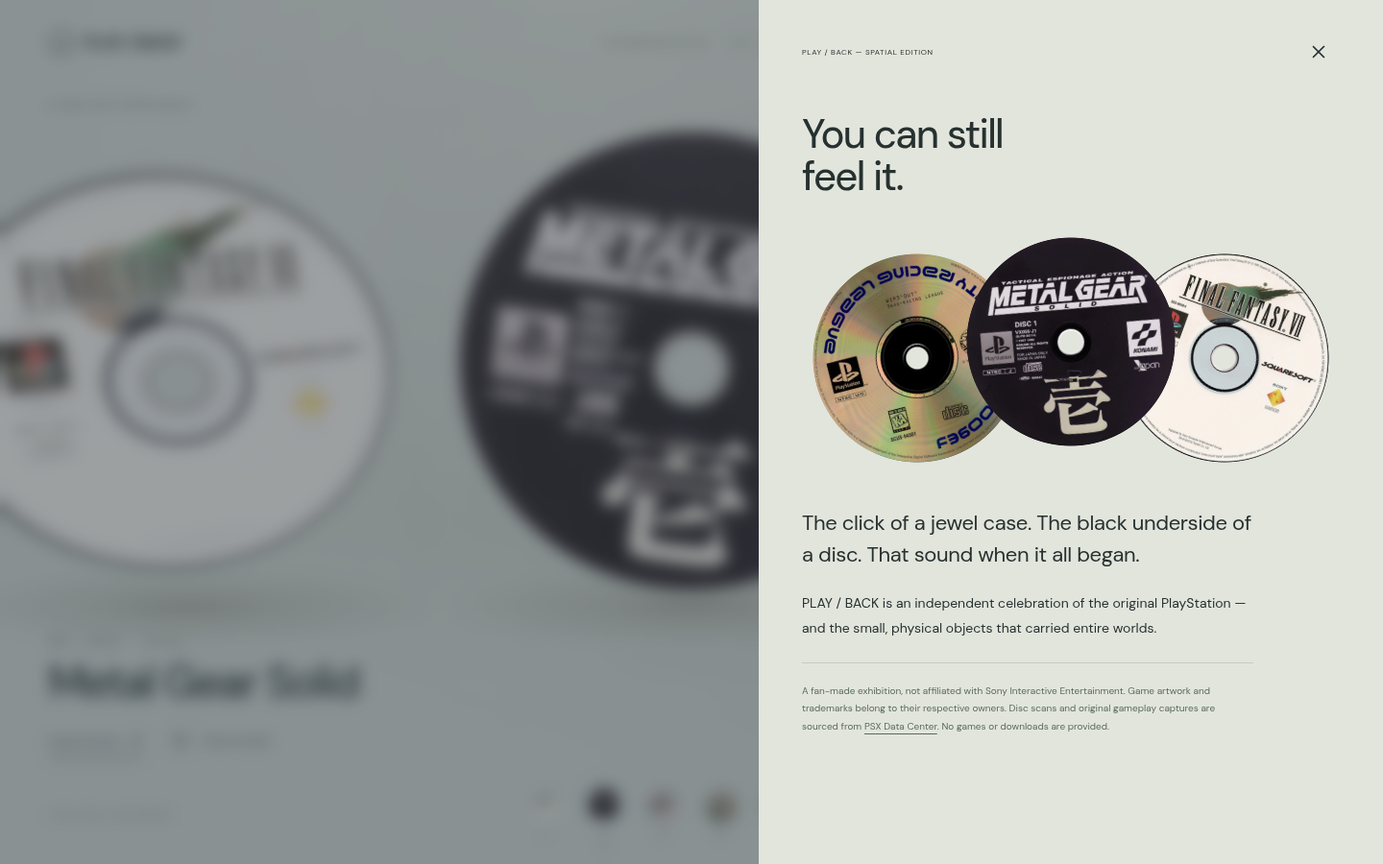
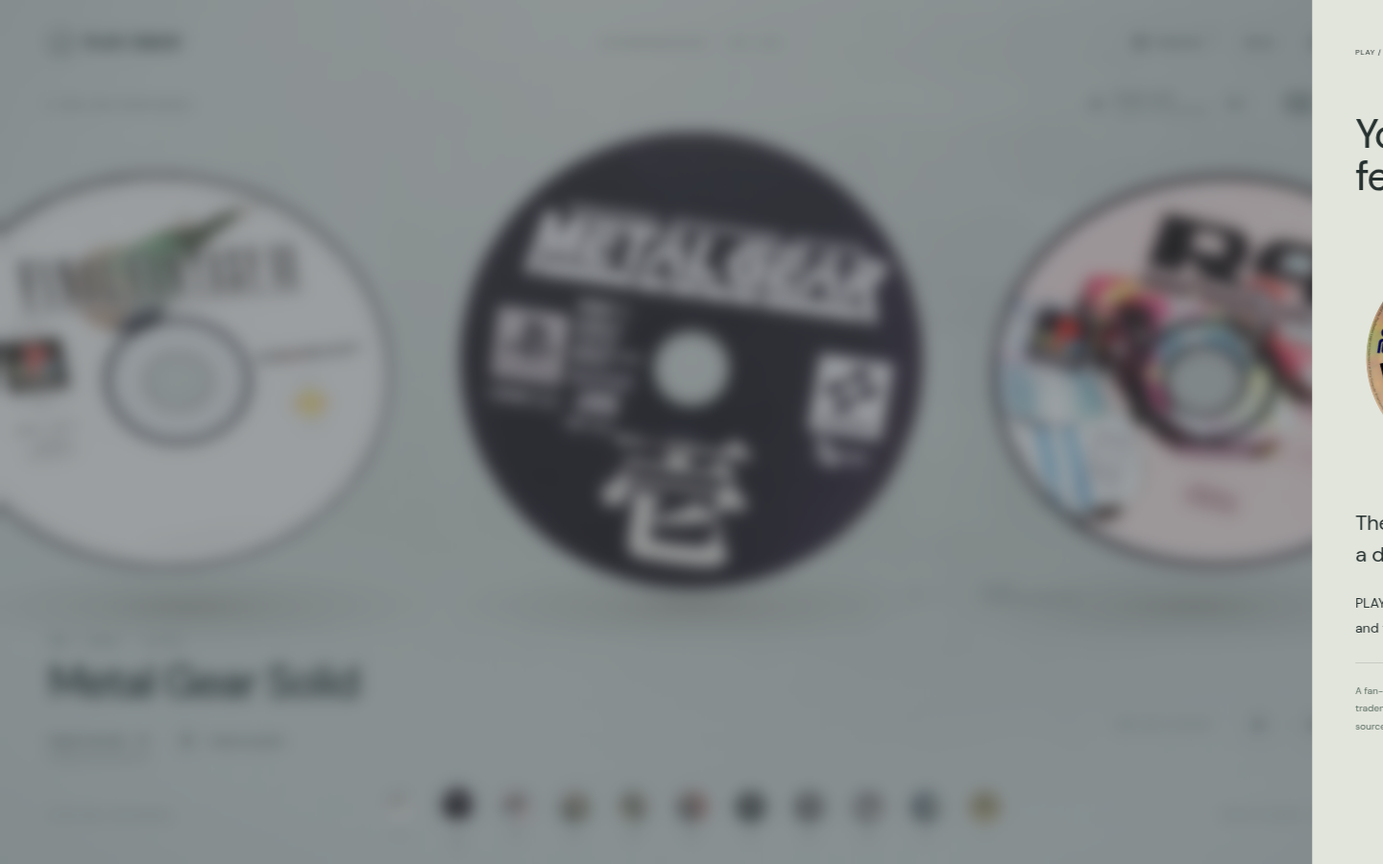
chore(release): prepare spatial edition for Cloudflare Pages

diff --git a/spatial-edition/src/DiscScene.tsx b/spatial-edition/src/DiscScene.tsx
@@ -59,6 +59,8 @@ export default function DiscScene({ state, onReady, onError }: Props) {
     const scene = new THREE.Scene();
     const camera = new THREE.PerspectiveCamera(29, 1, .1, 80);
     camera.position.set(0, 0, 14);
+    const cameraTarget = new THREE.Vector3(0, 0, 14);
+    const cameraLook = new THREE.Vector3(0, 0, 0);
     const room = new RoomEnvironment();
     const pmrem = new THREE.PMREMGenerator(renderer);
     const environment = pmrem.fromScene(room, .04);
@@ -70,6 +72,14 @@ export default function DiscScene({ state, onReady, onError }: Props) {
     key.position.set(-3, 6, 10); scene.add(key);
     const fill = new THREE.DirectionalLight(0xdce4ff, .65);
     fill.position.set(6, -2, 5); scene.add(fill);
+    const nightRim = new THREE.PointLight(0x90a9c5, 0, 18, 2);
+    nightRim.position.set(0, 2.5, 5.5); scene.add(nightRim);
+    const studioKey = new THREE.Color(0xfff8e9);
+    const nightKey = new THREE.Color(0xb8c8e6);
+    const studioFill = new THREE.Color(0xdce4ff);
+    const nightFill = new THREE.Color(0x7590b2);
+    const shadowStudio = new THREE.Color(0xffffff);
+    const shadowNight = new THREE.Color(0x6e8297);
 
     const faceGeometry = ring(.43, radius - .015);
     const backGeometry = ring(.43, radius - .008);
@@ -159,12 +169,13 @@ export default function DiscScene({ state, onReady, onError }: Props) {
     const fieldGeometry = new THREE.PlaneGeometry(45, 15);
     const fieldMaterial = new THREE.ShaderMaterial({
       transparent: true, depthWrite: false,
-      uniforms: { tint: { value: new THREE.Color(games[wrap(Math.round(state.current.position))].color) }, pointer: { value: new THREE.Vector2() } },
+      uniforms: { tint: { value: new THREE.Color(games[wrap(Math.round(state.current.position))].color) }, pointer: { value: new THREE.Vector2() }, night: { value: 0 } },
       vertexShader: 'varying vec2 vUv; void main(){vUv=uv;gl_Position=projectionMatrix*modelViewMatrix*vec4(position,1.);}',
-      fragmentShader: `varying vec2 vUv; uniform vec3 tint; uniform vec2 pointer;
+      fragmentShader: `varying vec2 vUv; uniform vec3 tint; uniform vec2 pointer; uniform float night;
         void main(){vec2 p=(vUv-.5)*vec2(3.,2.);p-=pointer*.035;
         float radius=length(p*vec2(.7,2.3));float falloff=exp(-radius*radius*3.);
-        gl_FragColor=vec4(tint,falloff*.17);
+        float nightStrength=mix(.12,.24,night);
+        gl_FragColor=vec4(tint,falloff*nightStrength);
         #include <colorspace_fragment>
         }`,
     });
@@ -199,13 +210,32 @@ export default function DiscScene({ state, onReady, onError }: Props) {
       px += (s.pointerX - px) * easing; py += (s.pointerY - py) * easing;
       hover += ((s.hovering ? 1 : 0) - hover) * easing;
       night += ((s.night ? 1 : 0) - night) * easing;
+      const mobile = width <= 540 || (s.detail && width <= 900);
+      const cameraMotion = s.reduced ? 0 : (mobile ? .62 : 1);
+      cameraTarget.set(px * (s.detail ? .18 : .1) * cameraMotion, -py * (s.detail ? .11 : .065) * cameraMotion, 14 - detail * .28 - hover * .035);
+      camera.position.x += (cameraTarget.x - camera.position.x) * easing;
+      camera.position.y += (cameraTarget.y - camera.position.y) * easing;
+      camera.position.z += (cameraTarget.z - camera.position.z) * easing;
+      cameraLook.set(s.detail ? -.16 : 0, detail * -.04, 0);
+      camera.lookAt(cameraLook);
       contourMaterial.color.setRGB(.29 + night * .35, .34 + night * .34, .28 + night * .35);
       haloMaterial.color.setRGB(.32 + night * .4, .38 + night * .4, .3 + night * .36);
-      key.intensity = 2.2 + night * .6; fill.intensity = .65 + night * .4;
-      const mobile = width <= 540 || (s.detail && width <= 900);
+      ambient.intensity = .85 - night * .25;
+      key.intensity = 2.2 - night * .45; fill.intensity = .65 - night * .2;
+      key.color.copy(studioKey).lerp(nightKey, night);
+      fill.color.copy(studioFill).lerp(nightFill, night);
+      nightRim.intensity = night * 1.4;
+      nightRim.position.x = px * 2.6;
+      nightRim.position.y = 2.5 - py * 1.8;
+      shadowMaterial.color.copy(shadowStudio).lerp(shadowNight, night);
+      shadowMaterial.opacity = .72 - night * .14;
+      edgeMaterial.envMapIntensity = .72 + night * .34;
+      hubMaterial.envMapIntensity = 1.25 + night * .35;
+      sheenMaterial.opacity = .045 + night * .025;
       const activeIndex = ((Math.round(renderedPosition) % games.length) + games.length) % games.length;
       fieldMaterial.uniforms.tint.value.lerp(new THREE.Color(games[activeIndex].color), easing * .3);
       fieldMaterial.uniforms.pointer.value.set(px, py);
+      fieldMaterial.uniforms.night.value = night;
       discs.forEach((disc, i) => {
         let distance = ((i - renderedPosition) % games.length + games.length) % games.length;
         if (distance > games.length / 2) distance -= games.length;
@@ -224,6 +254,7 @@ export default function DiscScene({ state, onReady, onError }: Props) {
         disc.visible = Math.abs(disc.position.x) < halfWidth + 4 && (detail < .98 || selected);
         shadows[i].position.x = disc.position.x;
         shadows[i].scale.x = scale;
+        shadows[i].scale.y = 1 + hover * focus * .1;
         shadows[i].visible = disc.visible;
         groundContours[i].position.x = disc.position.x;
         groundContours[i].visible = disc.visible;

diff --git a/spatial-edition/src/App.tsx b/spatial-edition/src/App.tsx
@@ -1,4 +1,4 @@
-import { lazy, Suspense, useCallback, useEffect, useRef, useState } from 'react';
+import { lazy, Suspense, useCallback, useEffect, useLayoutEffect, useRef, useState, type CSSProperties } from 'react';
 import { ArrowLeft, ArrowRight, ArrowUpRight, Plus, RotateCw, Volume2, VolumeX, X, MoveHorizontal, Sun, Moon, Aperture, Play, Grid2X2 } from 'lucide-react';
 import { discPath, games, number, wrap } from './data';
 import { media } from './media-data';
@@ -34,6 +34,7 @@ export default function App() {
   const memoryDestination = useRef<number | null>(null);
   const drag = useRef({ down: false, moved: false, x: 0, y: 0, previousX: 0, time: 0, velocity: 0, position: 0 });
   const game = games[active];
+  useLayoutEffect(() => { document.getElementById('boot-screen')?.remove(); }, []);
   const onReady = useCallback(() => setReady(true), []);
   const onError = useCallback(() => { setFallback(true); setReady(true); }, []);
   const setPosition = useCallback((position: number) => { scene.current.position = position; setActive(wrap(Math.round(position))); wake(); }, []);
@@ -123,6 +124,8 @@ export default function App() {
   const onPointerMove = (event: React.PointerEvent<HTMLDivElement>) => {
     const rect=event.currentTarget.getBoundingClientRect(); const x=event.clientX-rect.left, y=event.clientY-rect.top;
     scene.current.pointerX=(x/rect.width-.5)*2; scene.current.pointerY=(y/rect.height-.5)*2;
+    event.currentTarget.style.setProperty('--pointer-x', `${(x/rect.width-.5)*18}%`);
+    event.currentTarget.style.setProperty('--pointer-y', `${(y/rect.height-.5)*18}%`);
     scene.current.hovering = true; event.currentTarget.dataset.pointer='true';
     if(cursor.current) cursor.current.style.transform=`translate3d(${x}px,${y}px,0)`;
     if(drag.current.down) {
@@ -143,10 +146,15 @@ export default function App() {
     if(drag.current.moved) { if(!detail) { const velocity=performance.now()-drag.current.time<100?drag.current.velocity:0; setPosition(Math.round(scene.current.position-Math.max(-.65,Math.min(.65,velocity*.3)))); playTone('move',sound); } }
     else if(detail) flip();
     else { const r=event.currentTarget.getBoundingClientRect(); const distance=event.clientX-r.left-r.width/2; const spacing=pixelsPerDisc(r); if(Math.abs(distance)<spacing*.4) openGame(); else step(Math.sign(distance)); }
+    if (!drag.current.down) {
+      event.currentTarget.style.setProperty('--pointer-x', '0%');
+      event.currentTarget.style.setProperty('--pointer-y', '0%');
+    }
     wake();
   };
 
-  return <div className={`spatial-app ${detail?'is-detail':''} ${night?'is-night':''} ${ready?'is-ready':''}`}>
+  return <div className={`spatial-app ${detail?'is-detail':''} ${night?'is-night':''} ${ready?'is-ready':''}`} style={{ '--game-color': game.color } as CSSProperties} aria-busy={!ready}>
+    {!ready && <div className="startup-loading" role="status" aria-live="polite" aria-label="Loading the PLAY / BACK spatial exhibition"><div className="startup-loading__content" aria-hidden="true"><span className="startup-loading__disc"/><span className="startup-loading__name">PLAY / BACK</span><span className="startup-loading__label">LOADING THE SPATIAL EXHIBITION</span></div></div>}
     <a className="skip-link" href="#artifact-controls">Skip to artifact controls</a>
     <div className="atmosphere" aria-hidden="true"><img key={game.id} src={media[game.id][0].src} alt=""/><div/></div>
     <header className="site-header">
@@ -158,7 +166,7 @@ export default function App() {
       <div className="exhibit-note"><span className="live-dot"/>{detail?'THE ARTIFACT, UP CLOSE':'SMALL DISCS. ENTIRE WORLDS.'}</div>
       <div className="exhibit-number" aria-hidden="true"><span>{number(active)}</span><i>/ {String(games.length).padStart(2, '0')}</i></div>
       {detail && <button ref={closeButton} className="back-button" onClick={closeDetail}><ArrowLeft size={15}/> Back to the collection</button>}
-      <div className="gallery-stage" ref={stage} onPointerDown={onPointerDown} onPointerMove={onPointerMove} onPointerUp={e=>release(e)} onPointerCancel={e=>release(e,true)} onPointerLeave={e=>{e.currentTarget.dataset.pointer='false';scene.current.hovering=false;if(!drag.current.down){scene.current.pointerX=0;scene.current.pointerY=0;}wake();}}>
+      <div className="gallery-stage" ref={stage} onPointerDown={onPointerDown} onPointerMove={onPointerMove} onPointerUp={e=>release(e)} onPointerCancel={e=>release(e,true)} onPointerLeave={e=>{e.currentTarget.dataset.pointer='false';scene.current.hovering=false;if(!drag.current.down){scene.current.pointerX=0;scene.current.pointerY=0;e.currentTarget.style.setProperty('--pointer-x','0%');e.currentTarget.style.setProperty('--pointer-y','0%');}wake();}}>
         {!fallback && <Suspense fallback={null}><DiscScene state={scene} onReady={onReady} onError={onError}/></Suspense>}
         {(!ready||fallback) && <div className={`fallback-scene ${detail?'fallback-detail':''}`}>{[-1,0,1].map(offset=><div className={`fallback-disc offset-${offset}`} key={`${active}-${offset}`}>{flipped&&offset===0?<div className="fallback-reverse"/>:<img src={discPath(games[wrap(active+offset)])} alt=""/>}</div>)}</div>}
         <div className="disc-cursor" ref={cursor}><span>{detail?'TURN':'INSPECT'}<Plus size={12}/></span><i><MoveHorizontal size={20}/></i></div>

diff --git a/spatial-edition/src/film.css b/spatial-edition/src/film.css
@@ -55,7 +55,7 @@
 @keyframes next-memory-in{from{transform:translateX(18px);filter:blur(4px)}to{transform:translateX(0);filter:blur(0)}}
 @media(max-width:760px){.memory-mode{top:67px}.memory-viewer .memory-stage{top:124px}.film-stage{inset:136px 6% 135px;gap:18px}.film-player,.film-source{width:100%}.film-source{font-size:9px}.film-transport{gap:6px;padding:5px 8px}.film-sound>span{display:none}.film-clock{font-size:10px;min-width:75px}.film-sound{padding:0}.memory-next{gap:10px}.memory-next img{width:39px;height:39px}.memory-next>span{font-size:10px}.memory-next small{font-size:8px}.is-film .memory-caption>p{font-size:12px}}
 @media(max-width:540px){.memory-mode{top:59px}.memory-viewer .memory-stage{top:112px}.film-stage{inset:123px 5% 170px}.film-screen{aspect-ratio:4/3;border-radius:11px 30px 0 0}.film-player{border-top-right-radius:31px}.film-player::before{inset:-6px;border-top-right-radius:37px}.film-transport{gap:3px;flex-wrap:wrap;padding:6px 10px}.film-timeline{order:-1;flex-basis:100%;height:26px}.film-timeline input{height:26px}.film-clock{flex:1}.film-source{flex-direction:column;gap:4px}.film-source>span:last-child{display:none}.is-film .memory-bottom{align-items:flex-start;flex-direction:column;bottom:21px;gap:12px}.is-film .memory-next{width:100%;border-top:1px solid #bacab62b;padding-top:10px;min-height:52px}.is-film .memory-next>svg{margin-left:auto}.film-center-play{width:60px;height:60px}}
-@media(max-height:560px) and (min-width:541px){.memory-mode{top:12px;left:50%}.memory-top .memory-game{display:none}.memory-top{top:12px}.film-stage{inset:77px 22% 40px;gap:6px}.film-player{width:min(100%,calc((100svh - 171px)*1.6))}.film-screen{aspect-ratio:16/10}.film-transport{min-height:48px;padding:0 5px;gap:4px}.film-clock{min-width:66px;font-size:9px}.film-sound>span{display:none}.film-source{display:none}.is-film .memory-bottom{bottom:12px;left:3.5%;right:3.5%;pointer-events:none}.is-film .memory-caption{max-width:19%;align-self:flex-end}.is-film .memory-caption>p{font-size:10px;line-height:1.4}.memory-next{pointer-events:auto;max-width:21%;gap:8px;align-self:flex-end}.memory-next img{width:33px;height:33px}.memory-next>span{font-size:9px}.memory-next small{font-size:8px}.memory-next>svg{display:none}.memory-viewer:not(.is-film) .memory-stage{inset:68px 0 75px}.memory-viewer:not(.is-film) .memory-image-wrap{inset:-6% 23% -4%}.memory-viewer:not(.is-film) .memory-headline{left:4%;bottom:5%}.memory-viewer:not(.is-film) .memory-headline h2{font-size:5vw}.memory-viewer:not(.is-film) .memory-headline>p{max-width:19vw;font-size:8px}.memory-viewer:not(.is-film) .memory-frame-count{right:5%;bottom:7%}.memory-viewer:not(.is-film) .memory-side-note{display:none}.memory-viewer:not(.is-film) .memory-bottom{bottom:18px}.memory-next.is-capture-next{position:absolute;right:0;bottom:54px;max-width:160px}}
+@media(max-height:560px) and (min-width:541px){.memory-mode{top:12px;left:50%}.memory-top .memory-game{display:none}.memory-top{top:12px}.film-stage{inset:66px 8% 30px;gap:6px}.film-player{width:min(100%,calc((100svh - 135px)*1.6),980px)}.film-screen{aspect-ratio:16/10}.film-transport{min-height:48px;padding:0 5px;gap:4px}.film-clock{min-width:66px;font-size:9px}.film-sound>span{display:none}.film-source{display:none}.is-film .memory-bottom{bottom:12px;left:3.5%;right:3.5%;pointer-events:none}.is-film .memory-caption{max-width:19%;align-self:flex-end}.is-film .memory-caption>p{font-size:10px;line-height:1.4}.memory-next{pointer-events:auto;max-width:21%;gap:8px;align-self:flex-end}.memory-next img{width:33px;height:33px}.memory-next>span{font-size:9px}.memory-next small{font-size:8px}.memory-next>svg{display:none}.memory-viewer:not(.is-film) .memory-stage{inset:68px 0 75px}.memory-viewer:not(.is-film) .memory-image-wrap{inset:-6% 23% -4%}.memory-viewer:not(.is-film) .memory-headline{left:4%;bottom:5%}.memory-viewer:not(.is-film) .memory-headline h2{font-size:5vw}.memory-viewer:not(.is-film) .memory-headline>p{max-width:19vw;font-size:8px}.memory-viewer:not(.is-film) .memory-frame-count{right:5%;bottom:7%}.memory-viewer:not(.is-film) .memory-side-note{display:none}.memory-viewer:not(.is-film) .memory-bottom{bottom:18px}.memory-next.is-capture-next{position:absolute;right:0;bottom:54px;max-width:160px}}
 @media(prefers-reduced-motion:reduce){.film-stage,.memory-next,.film-status>span{animation:none}.film-center-play,.memory-mode button::after,.memory-next img{transition:none}}
 @media(max-width:540px){.memory-continuation{left:7%;right:7%;bottom:82px}.memory-continuation.is-capture-next{left:auto;bottom:68px;background:#111a1df2;padding:7px 11px;border:1px solid #c8d6bd33}.memory-continuation.is-capture-next .memory-next{border:0;padding:0}.memory-continuation .memory-next{max-width:none}.memory-viewer.has-continuation:not(.is-film) .memory-headline>p{visibility:hidden}}
 @media(max-height:560px) and (min-width:541px){.memory-continuation{right:3%;bottom:18px;max-width:19%}.memory-continuation .memory-next{max-width:none}.memory-continuation.is-capture-next{bottom:87px}}

diff --git a/spatial-edition/index.html b/spatial-edition/index.html
@@ -4,12 +4,29 @@
     <meta charset="UTF-8" />
     <meta name="viewport" content="width=device-width, initial-scale=1.0" />
     <meta name="theme-color" content="#cdd3d1" />
-    <meta name="description" content="A love letter to the original PlayStation. Six iconic games, six physical artifacts. Pick one up. Play it back." />
+    <meta name="description" content="A love letter to the original PlayStation. Eleven iconic games, eleven physical artifacts. Pick one up. Play it back." />
     <meta property="og:title" content="PLAY / BACK — Spatial Edition" />
-    <meta property="og:description" content="Small discs. Entire worlds. An interactive exhibition of the games that stayed with us." />
+    <meta property="og:description" content="Eleven small discs. Entire worlds. An interactive exhibition of the games that stayed with us." />
     <link rel="icon" type="image/svg+xml" href="/favicon.svg" />
     <link rel="preload" href="/fonts/barlow-condensed-latin.woff2" as="font" type="font/woff2" crossorigin />
     <title>PLAY / BACK — Spatial Edition</title>
+    <style>
+      .startup-loading{position:fixed;inset:0;z-index:10000;display:grid;place-items:center;background:#d9ddd5;color:#263130;font-family:Arial,sans-serif}
+      .startup-loading__content{display:grid;justify-items:center;gap:16px}
+      .startup-loading__disc{position:relative;width:clamp(88px,15vw,132px);aspect-ratio:1;border:1px solid #53615a;border-radius:50%;display:grid;place-items:center;animation:startup-turn 4s linear infinite}
+      .startup-loading__disc::before{content:"";position:absolute;inset:9%;border:1px solid #53615a80;border-radius:50%;border-left-color:transparent}
+      .startup-loading__disc::after{content:"";width:12%;aspect-ratio:1;border:1px solid #53615a;border-radius:50%;background:#d9ddd5}
+      .startup-loading__name{font-size:13px;font-weight:650;letter-spacing:.08em}
+      .startup-loading__label{font-size:8px;letter-spacing:.16em;color:#53615a}
+      @keyframes startup-turn{to{transform:rotate(360deg)}}
+      @media(prefers-reduced-motion:reduce){.startup-loading__disc{animation:none}}
+    </style>
   </head>
-  <body><div id="root"></div><script type="module" src="/src/main.tsx"></script></body>
+  <body>
+    <div id="boot-screen" class="startup-loading" role="status" aria-live="polite" aria-label="Loading the PLAY / BACK spatial exhibition">
+      <div class="startup-loading__content" aria-hidden="true"><span class="startup-loading__disc"></span><span class="startup-loading__name">PLAY / BACK</span><span class="startup-loading__label">LOADING THE SPATIAL EXHIBITION</span></div>
+    </div>
+    <div id="root"></div>
+    <script type="module" src="/src/main.tsx"></script>
+  </body>
 </html>

diff --git a/spatial-edition/src/refinements.css b/spatial-edition/src/refinements.css
@@ -1,4 +1,14 @@
 .spatial-app:not(.is-night){--muted:#4c5c59}
+.spatial-app{--game-color:#a8c0ae}
+.atmosphere::before{content:'';position:absolute;inset:-18%;background:radial-gradient(ellipse at 50% 42%,color-mix(in srgb,var(--game-color),transparent 88%),transparent 58%);opacity:.38;transform:scale(1.04);transition:opacity 1.2s var(--ease)}
+.atmosphere::after{content:'';position:absolute;inset:0;background:radial-gradient(ellipse at 50% 48%,transparent 22%,#111a1d0b 75%,#10171925 100%);opacity:.32;pointer-events:none}
+.gallery-stage::before{content:'';position:absolute;inset:4% 8%;pointer-events:none;z-index:1;opacity:0;mix-blend-mode:soft-light;background:radial-gradient(ellipse at calc(50% + var(--pointer-x,0%)) calc(50% + var(--pointer-y,0%)),color-mix(in srgb,var(--game-color),white 42%) 0%,transparent 34%);transition:opacity .55s var(--ease),background-position .6s var(--ease)}
+.gallery-stage[data-pointer=true]::before{opacity:.34}
+.is-night .atmosphere>div{opacity:.72;background:radial-gradient(ellipse at 50% 8%,#8da0c025,transparent 53%),linear-gradient(130deg,#162126aa,#202c30 45%,#10181dcc)}
+.is-night .atmosphere::before{opacity:.9;animation:night-drift 18s ease-in-out infinite alternate}
+.is-night .atmosphere::after{opacity:.75;background:radial-gradient(ellipse at 50% 42%,transparent 18%,#07101444 72%,#050a0d9c 100%)}
+.is-night .gallery-stage::after{content:'';position:absolute;inset:12% 18% 6%;pointer-events:none;border:1px solid color-mix(in srgb,var(--game-color),transparent 88%);border-radius:50%;transform:rotate(-9deg) scaleX(1.35);opacity:.26;mix-blend-mode:screen}
+@keyframes night-drift{from{transform:translate3d(-1.5%,0,0) scale(1.04)}to{transform:translate3d(1.5%,1%,0) scale(1.08)}}
 .artifact-actions>button,.back-button,.flip-button{font-size:11px}
 .memory-auto>span{font-size:11px}
 .disc-dock>button{position:relative}
@@ -34,3 +44,7 @@
   .spatial-app:not(.is-detail) .disc-dock button{min-width:40px;padding:5px}
 }
 @media(prefers-reduced-motion:reduce){.disc-dock>button>.dock-label{transition:none}}
+@media(prefers-reduced-motion:reduce){.is-night .atmosphere::before{animation:none}.gallery-stage::after,.gallery-stage::before{display:none}}
+.gallery-stage::before{will-change:opacity,background-position}
+@media(hover:none){.gallery-stage::before{display:none}}
+.archive-panel{animation-fill-mode:both}

diff --git a/spatial-edition/tests/experience.spec.ts b/spatial-edition/tests/experience.spec.ts
@@ -1,5 +1,18 @@
 import { expect, test } from '@playwright/test';
 
+test('announces a loading screen while the spatial scene is still loading', async ({ page }) => {
+  let release!: () => void;
+  const gate = new Promise<void>(resolve => { release = resolve; });
+  await page.route(/\/discs\/[^/]+\.webp$/, async route => { await gate; await route.continue(); });
+  await page.goto('/', { waitUntil: 'domcontentloaded' });
+  const loadingScreen = page.locator('.startup-loading');
+  await expect(loadingScreen).toBeVisible();
+  await expect(loadingScreen).toHaveAttribute('role', 'status');
+  release();
+  await expect(page.locator('.is-ready')).toBeVisible({ timeout: 20000 });
+  await expect(loadingScreen).toHaveCount(0);
+});
+
 test('collection navigation wraps and inspection preserves its artifact', async ({ page }) => {
   await page.goto('/');
   await page.getByRole('button', { name: 'Previous game', exact: true }).click();
@@ -37,17 +50,20 @@ test('index opens the selected artifact', async ({ page }) => {
   await expect(page.locator('.archive-panel')).toHaveCount(0);
 });
 
-test('backward navigation during lazy loading cannot crash the scene', async ({ page }) => {
+test('keyboard navigation during delayed scene loading cannot crash the scene', async ({ page }) => {
   const errors: string[] = []; page.on('pageerror', e => errors.push(e.message));
   let release!: () => void;
   const gate = new Promise<void>(resolve => { release = resolve; });
   await page.route(/\/src\/DiscScene\.tsx/, async route => { await gate; await route.continue(); });
   await page.goto('/', { waitUntil: 'domcontentloaded' });
-  await page.getByRole('button', { name: 'Previous game', exact: true }).click();
-  await page.getByRole('button', { name: 'Previous game', exact: true }).click();
+  await page.locator('.spatial-app').waitFor();
+  await expect(page.locator('#boot-screen')).toHaveCount(0);
+  await page.waitForTimeout(100);
+  await page.keyboard.press('ArrowLeft');
+  await page.keyboard.press('ArrowLeft');
+  await expect(page.locator('.artifact-caption h1')).toHaveText("Tony Hawk's Pro Skater 2");
   release();
   await expect(page.locator('.is-ready')).toBeVisible({ timeout: 20000 });
-  await expect(page.locator('.artifact-caption h1')).toHaveText("Tony Hawk's Pro Skater 2");
   expect(errors).toEqual([]);
 });
 

diff --git a/spatial-edition/docs/verification.md b/spatial-edition/docs/verification.md
@@ -1,27 +1,27 @@
 # Verification — spatial edition
 
-Final verification was performed in Chromium on 26 September 2026. The spatial edition remains isolated in this folder; the parent edition was not modified.
+Release review performed 2 October 2026 against the current `feat/expanded-collection` candidate.
 
-## Production build
+## Build and Cloudflare Pages shape
 
-`npm run build` passes TypeScript and Vite production compilation. Three.js and the memory viewer are separate lazy chunks. Disc artwork, captures, fonts, film posters and all six H.264/AAC films are self-hosted. Only the active film is mounted; no YouTube, thumbnail or streaming request is made by the experience.
+`npm run build` passed TypeScript and Vite production compilation. The production output is `dist/`; Three.js and the memory viewer are separate lazy chunks. Cloudflare Pages settings are recorded in [README.md](../README.md): project root `spatial-edition`, build command `npm run build`, output directory `dist`, and Node.js `22.16.0` pinned in `.node-version`. No build-time environment variables are required.
+
+The built output contains 78 files and is approximately 51.9 MiB. The largest file is `tekken-3.mp4` at 12,353,599 bytes, below Pages’ 25 MiB per-file limit. The full set is below Pages’ 20,000-file Free-plan limit. See [Cloudflare Pages limits](https://developers.cloudflare.com/pages/platform/limits/).
 
 ## Browser regressions
 
-The committed Playwright suite contains twelve scenarios. It covers cyclic collection navigation, inspection and reversal, memory-room focus and keyboard isolation, index selection, delayed scene loading, reduced motion, the WebGL fallback, browser Back behavior, the 844 × 390 collection composition, local film autoplay/pause/seek, retry after media failure, switching to captures, and the image-led next-memory handoff.
+`npm test` passed **19/19 scenarios in 5.6 minutes** in Chromium. Coverage includes all eleven collection items, their detail and capture routes, keyboard and pointer interaction, inspection and reversal, delayed scene loading, the accessible loading screen, reduced motion, WebGL fallback, browser Back, short-landscape controls, local film controls, retry after a media failure, and the next-memory handoff.
 
-The focused film suite passed all four scenarios after the native seek test was changed to interact with the range track as a visitor would. The history and short-landscape regressions both pass. The final complete suite is rerun after all source edits and its result is recorded below.
+## Production-preview smoke
 
-## Local film integrity
+The Vite production preview served the built `dist` output in Chromium. The loading screen cleared when the scene became ready; the 11-item collection and a direct `#game/tony-hawk-2` link rendered. The Metal Gear Solid film played, reported `readyState: 4` and a real duration, then the visitor switched to captures and closed the memory room. No browser runtime or console errors, unexpected failed requests, or third-party video requests were recorded.
 
-`scripts/film-playback.mjs` opened each game in Chromium and verified that its local video advanced, reported a real duration, reached `readyState: 4`, and decoded after seeking near the midpoint. All six completed with no video error, no application runtime error and no YouTube, ytimg or googlevideo request.
+All eleven local MP4s were then opened from the production preview, played, and sought. Each reached `readyState: 4` without a media error. There were no YouTube, `ytimg`, or `googlevideo` requests.
 
-Every MP4 was also decoded end to end with ffmpeg using an error-only pass; all six exited cleanly. The footage totals approximately 34 MB. Encoding and provenance are recorded in [film-sources.md](film-sources.md).
+## Release conditions and evidence limits
 
-## Visual review
+- The workspace has no Git remote configured, so no remote `main` push, Cloudflare build, deployed commit check, production-URL smoke, or Cloudflare rollback check was possible.
+- Project notes say permission for public distribution of the locally hosted game films is required. The workspace contains no permission evidence. The five added disc textures and fifteen added captures also lack exact source-file entries in the provenance tables. Public release is conditional on resolving those asset rights and provenance gaps.
+- Browser verification used software-rendered Chromium. It is not a physical-phone GPU or real-device performance check.
 
-Desktop 1440 × 900, mobile 390 × 844 and 320 × 740, tablet 768 × 1024, and short landscape 844 × 390 were captured during interaction. The review covered collection, hover/focus dock titles, inspection, reverse surface, local playback, custom controls, captures and both ending handoffs. The fresh short-landscape dialog remained at scroll position zero and the player fit inside the viewport. No horizontal overflow or page runtime error was found in the media-layout capture pass.
-
-The independent design review began at a subjective 7.3/10 and identified five priorities. All five were implemented and rechecked: video-first local playback; isolated inspection; clearer rim/hub material response; sighted dock labels; and an image-led continuation. A separate browser critic found and verified fixes for short-landscape controls, browser Back, video-duration synchronization, muted-text contrast and functional label sizing. Reports and their limitations are in [critic-review.md](critic-review.md) and [browser-critique.md](browser-critique.md); evidence is under `.impeccable/review/`.
-
-These checks use software-rendered Chromium in the test environment. They verify behavior and layouts, but are not a physical-phone GPU benchmark or a rights clearance for public distribution of the archival footage.
+The locally tested build is a candidate for static Cloudflare Pages hosting, with public release conditional on the items above.

diff --git a/spatial-edition/DESIGN.md b/spatial-edition/DESIGN.md
@@ -69,7 +69,7 @@ components:
 
 **Creative North Star: "A world you could hold."**
 
-The exhibition begins with physical discs in a cool, softly lit studio. Authentic printed surfaces, perspective, dark polycarbonate reverses and delicate contour graphics carry the identity. Text supports recognition and interaction; the memory room opens the object into original gameplay and cinematic imagery.
+The exhibition begins with physical discs in a cool, softly lit studio. Authentic printed surfaces, perspective, dark polycarbonate reverses and delicate contour graphics carry the identity. Text supports recognition and interaction; the memory room opens the object into original gameplay and cinematic imagery. After-hours is a full lighting state with camera parallax, cooler rim light, a deeper room field and selected-artwork color response.
 
 **Key Characteristics:**
 
@@ -92,7 +92,7 @@ The main collection is a viewport composition: narrow header, large central scen
 
 ## Elevation & Depth
 
-Depth belongs to the objects: perspective, annular geometry, a visible thin edge, metallic hub, printed front and reflective black reverse. Diffuse elliptical shadows and three ground rings establish a shared plane. Pointer motion shifts the disc and light; partial contours and radial ticks intensify on hover. Interface controls use fine borders and tonal inversion rather than card shadows. Memory depth combines image parallax, a moving aperture edge, a fine offset outline and atmospheric blur.
+Depth belongs to the objects: perspective, annular geometry, a visible thin edge, metallic hub, printed front and reflective black reverse. Diffuse elliptical shadows and three ground rings establish a shared plane. Pointer motion shifts the disc, camera and light with damped movement; a restrained pointer-following aperture now gives the ground plane a physical footprint, while partial contours and radial ticks intensify on hover. After-hours adds a low-energy colored room field, cooler rim light and deeper contact shadows. Interface controls use fine borders and tonal inversion rather than card shadows. Memory depth combines image parallax, a moving aperture edge, a fine offset outline and atmospheric blur.
 
 ## Shapes
 
@@ -107,7 +107,7 @@ Circles belong to discs, navigation and cursors; the flip control is a capsule. 
 - **Archive:** native dialog with image-led rows and fine separators; the collection remains mounted behind it.
 - **Memory viewer:** native dialog opens on a locally hosted archival trailer, commercial or opening cinematic before captures. The projection has a sculpted outer contour and a quiet custom transport outside the picture; playback starts muted, supports seeking, sound and fullscreen, and has a local poster and retry state. A Film / Captures switch reveals three locally hosted original-resolution captures per game in a fluid frame, with caption, manual navigation and optional five-second autoplay. At a film ending or the final capture, an image-led next-memory prompt returns the visitor to the next physical disc. Switching to captures or closing the room removes the video element.
 
-Motion follows `--ease`; the scene settles when idle and suspends behind modal surfaces. Reduced-motion preferences remove decorative animation and pointer parallax. Sound is optional and initially off.
+Motion follows `--ease`; the scene settles when idle and suspends behind modal surfaces. Reduced-motion preferences remove decorative animation and pointer parallax. Short landscape film viewports widen the projection stage and reduce chrome so the archival image retains presence without clipping. Sound is optional and initially off.
 
 ## Do's and Don'ts
 

diff --git a/spatial-edition/README.md b/spatial-edition/README.md
@@ -1,6 +1,6 @@
 # PLAY / BACK — Spatial edition
 
-A React, TypeScript and Three.js exhibition of six original PlayStation discs. Browse physical objects in studio or after-hours lighting, inspect their reverse, and enter a cinematic room of original game captures and archival films.
+A React, TypeScript and Three.js exhibition of eleven original PlayStation discs. Browse physical objects in studio or after-hours lighting, inspect their reverse, and enter a cinematic room of original game captures and archival films.
 
 ## Run locally
 
@@ -36,6 +36,20 @@ Reduced-motion preferences are respected. Local disc images provide a fallback i
 
 ## Artwork and design
 
-Disc textures, eighteen game captures, six archival films, their posters and both fonts are hosted locally. Film files total about 34 MB but only the selected game’s film is mounted and loaded. Exact sources are recorded in [disc provenance](docs/assets.md), [capture provenance](docs/media-assets.md) and [film provenance](docs/film-sources.md). This independent fan exhibition provides no games or game downloads; artwork and trademarks belong to their respective owners. Public deployment of the archival footage requires permission from the relevant rights holders.
+Disc textures, thirty-three game captures, eleven archival films, their posters and both fonts are hosted locally. Film files total about 48 MiB, but only the selected game’s film is mounted and loaded. Sources and preparation notes are recorded in [disc provenance](docs/assets.md), [capture provenance](docs/media-assets.md) and [film provenance](docs/film-sources.md). This independent fan exhibition provides no games or game downloads; artwork and trademarks belong to their respective owners. Public deployment of the archival footage requires permission from the relevant rights holders.
+
+## Cloudflare Pages
+
+Create a Pages project from this repository with these settings:
+
+- Root directory: `spatial-edition`
+- Build command: `npm run build`
+- Build output directory: `dist`
+- Node.js: pinned to `22.16.0` in `.node-version`
+- Environment variables: none required
+
+The root directory matters because the repository root contains a separate edition. The collection uses hash-based navigation, so it needs no server-side routes or Functions. All individual assets are below Pages’ 25 MiB per-file limit.
+
+Before making the exhibition public, obtain permission for the locally hosted game footage, captures and artwork from their respective rights holders. Source and provenance notes identify where the assets came from; they do not grant distribution rights.
 
 See [DESIGN.md](DESIGN.md), [.impeccable/design.json](.impeccable/design.json) and the [surface brief](docs/surface.md) for the current implemented direction. This folder is the standalone spatial edition; the parent project's original edition is separate.

diff --git a/spatial-edition/docs/surface.md b/spatial-edition/docs/surface.md
@@ -8,7 +8,7 @@ THESIS: Recognize a physical disc, handle it, then enter a remembered world. Aut
 
 WORLD: Cool studio gray, graphite labels, a dark after-hours alternate, perspective and soft reflections. Ground rings and partial hover contours frame real disc scans. A subtle image-derived atmosphere connects each object to its game.
 
-FIRST VIEWPORT: Small brand and navigation above an oversized central disc with neighboring discs partially visible. Quiet catalog notes, lighting switch, concise selected-game title and actions surround the scene. A six-disc image dock anchors the bottom. There is no oversized introductory headline.
+FIRST VIEWPORT: Small brand and navigation above an oversized central disc with neighboring discs partially visible. Quiet catalog notes, lighting switch, concise selected-game title and actions surround the scene. An eleven-disc image dock anchors the bottom. There is no oversized introductory headline.
 
 STORY: Drag, scroll, use arrow keys or select a thumbnail. Inspect the same object as it shifts into position; turn it over to see its dark reflective underside. Enter its world to play a locally hosted archival trailer, commercial or opening cinematic in a large framed projection. Switch to Captures for three original PlayStation images in a fluid photographic frame. At the end, choose the next disc. Close the memory room to return to the selected artifact.
 
@@ -18,7 +18,7 @@ RESPONSIVE: Desktop inspection places the object beside its description. Narrow 
 
 ## Implemented surfaces
 
-- Collection and six-disc dock; studio/after-hours lighting; optional sound.
+- Collection and eleven-disc dock; studio/after-hours lighting; optional sound.
 - Disc inspection, reversible physical object and hash-linked game selection.
 - Collection index and about/credits side panels.
 - Memory room with image captions, previous/next controls, frame selection and optional autoplay.

diff --git a/spatial-edition/POLISH_PLAN.md b/spatial-edition/POLISH_PLAN.md
@@ -1,0 +1,24 @@
+# Spatial Edition — autonomous visual polish pass
+
+## Baseline diagnosis
+
+Fresh Chromium captures were reviewed at desktop, after-hours, detail, reverse-disc, about, film, captures, 320/390/600/768px, and short-landscape sizes. The core experience is coherent and production-ready. Two P2 weaknesses remained:
+
+1. The collection ground treatment reads as a beautiful static surface. Disc lighting responds to the pointer, but the surrounding atmosphere does not give the pointer a physical footprint.
+2. In short landscape film viewports, the projection player is deliberately over-constrained by large side gutters and feels smaller than the surrounding memory-room composition.
+
+## Chosen improvements
+
+1. Add a restrained pointer-following aperture to the gallery ground. It will be driven by the existing pointer coordinates, remain behind the controls, fade out on pointer leave, and be disabled for reduced motion/touch contexts.
+2. Recompose the film room specifically for short landscape screens: reduce vertical chrome, widen the stage, and let the player use the available width while retaining the 16:10 archival frame and bottom caption hierarchy.
+
+## Verification
+
+- Build with TypeScript and Vite.
+- Run the full Playwright suite, then isolate any media-load flakes.
+- Capture equivalent desktop, night, detail, film, and short-landscape screenshots.
+- Recheck reduced-motion behavior, pointer interaction, no-overflow layouts, keyboard navigation, and fallback mode.
+
+## Non-goals
+
+No new dependencies, no replacement of the disc scene, no broad visual redesign, and no copy/content expansion.

diff --git a/spatial-edition/docs/assets.md b/spatial-edition/docs/assets.md
@@ -15,4 +15,4 @@ The exhibition uses scans of authentic original PlayStation release discs, downl
 
 ImageMagick mechanically cropped each scan to the physical disc boundary, corrected minor scan aspect-ratio distortion by resizing to 1024 × 1024, stripped metadata, and encoded WebP at quality 90. Lower-resolution source scans were upscaled only to standardize GPU texture dimensions; they do not contain invented detail. No generative image editing was used. The center holes remain untouched in the textures so the scene geometry can supply actual holes. The square corner background is intended to fall outside circular disc geometry.
 
-All six finished textures were visually inspected together. Total compressed texture transfer is approximately 1.02 MiB.
+The original six finished textures were visually inspected together. Five later additions extend the collection; their game records are [Castlevania: Symphony of the Night](https://www.psxdatacenter.com/games/U/C/SLUS-00067.html), [Silent Hill](https://www.psxdatacenter.com/games/U/S/SLUS-00707.html), [Gran Turismo 2](https://psxdatacenter.com/games/U/G/SCUS-94455.html), [Crash Bandicoot 3: Warped](https://psxdatacenter.com/games/U/C/SCUS-94244.html), and [Tony Hawk's Pro Skater 2](https://www.psxdatacenter.com/games/U/T/SLUS-01066.html). Their exact image URLs and crop coordinates were not included with the expansion. Total compressed disc texture transfer for all eleven is approximately 2.3 MiB.
